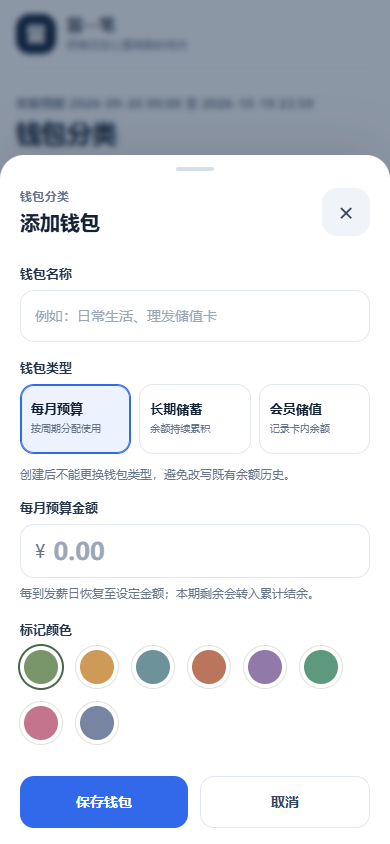
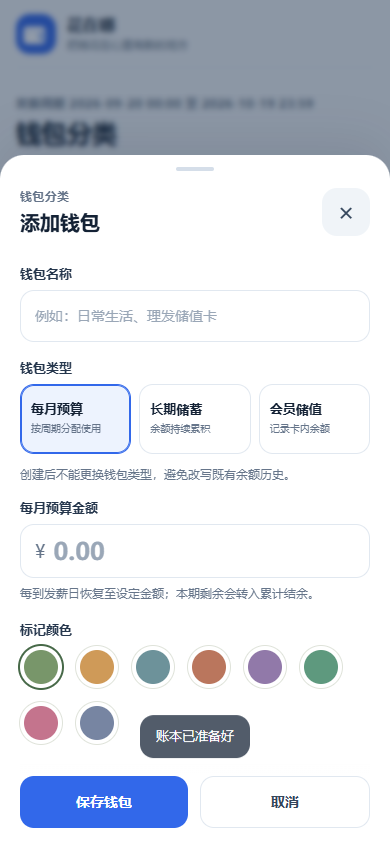
改名花在哪并更换钱包图标，发布 2.0.1

Changed region(s): [[0.3385, 0.8318, 0.6462, 0.9242], [0.0308, 0.0, 0.1538, 0.0924], [0.2154, 0.0, 0.2769, 0.0616]]

diff --git a/index.html b/index.html
@@ -8,11 +8,11 @@
   <link rel="manifest" href="manifest.json">
   <link rel="icon" href="icon.svg" type="image/svg+xml">
   <link rel="stylesheet" href="styles.css">
-  <title>留一笔 · 预算记账</title>
+  <title>花在哪 · 预算记账</title>
 </head>
 <body>
   <div class="app-shell">
-    <header class="topbar"><a class="brand" href="#wallets" aria-label="留一笔首页"><span class="brand-mark">留</span><span>留一笔<small>把钱花在心里有数的地方</small></span></a></header>
+    <header class="topbar"><a class="brand" href="#wallets" aria-label="花在哪首页"><img class="brand-mark" src="icon.svg" alt=""><span>花在哪<small>把钱花在心里有数的地方</small></span></a></header>
     <div id="storageWarning" class="storage-warning" role="alert" hidden></div>
     <main>
       <section class="page active" id="walletsPage">
@@ -65,7 +65,7 @@
           <p class="field-help" id="backupStatus">尚未备份</p>
           <p class="field-help">离线使用。关闭页面期间不会后台提醒；重新打开时会补齐到期项目和发薪周期。</p>
         </section>
-        <p class="privacy-note" id="privacyNote">数据只保存在此浏览器 · 不需要注册 · 留一笔 2.0.0</p>
+        <p class="privacy-note" id="privacyNote">数据只保存在此浏览器 · 不需要注册 · 花在哪 2.0.1</p>
       </section>
     </main>
     <nav class="bottom-nav" aria-label="主导航"><button class="nav-item active" data-page="walletsPage"><svg viewBox="0 0 24 24" aria-hidden="true"><path d="M4 6.5h15a2 2 0 0 1 2 2v9a2 2 0 0 1-2 2H5a2 2 0 0 1-2-2v-12a2 2 0 0 1 2-2h14M3 8h18m-5 5h3"/></svg>钱包</button><button class="nav-item" data-page="billsPage"><svg viewBox="0 0 24 24" aria-hidden="true"><path d="M6 3.5h12v17l-3-2-3 2-3-2-3 2zM9 8h6m-6 4h6m-6 4h3"/></svg>账单</button><button class="nav-item" data-page="settingsPage"><svg viewBox="0 0 24 24" aria-hidden="true"><path d="M12 3.5v2m0 13v2m8.5-8.5h-2m-13 0h-2m14.5-6-1.4 1.4m-9.2 9.2L6 18m12 0-1.4-1.4M7.4 7.4 6 6m10 6a4 4 0 1 1-8 0 4 4 0 0 1 8 0Z"/></svg>设置</button></nav>
@@ -74,7 +74,7 @@
   <input id="importFile" type="file" accept="application/json,.json" hidden>
   <section class="onboarding" id="onboarding" aria-labelledby="setupTitle" hidden>
     <div class="onboarding-shell">
-      <div class="onboarding-brand"><span class="brand-mark">留</span><span>留一笔<small>按自己的节奏开始</small></span></div>
+      <div class="onboarding-brand"><img class="brand-mark" src="icon.svg" alt=""><span>花在哪<small>按自己的节奏开始</small></span></div>
       <div class="setup-progress" aria-label="初始化步骤"><span data-setup-progress="1"></span><span data-setup-progress="2"></span><span data-setup-progress="3"></span></div>
       <div class="setup-step" id="setupStep1">
         <p class="eyebrow">第 1 步 · 工资周期</p><h1 id="setupTitle">先设定你的发薪节奏</h1><p class="setup-intro">输入实际到手工资和发薪日。金额留空时不会按 0 元开始。</p>

diff --git a/app.js b/app.js
@@ -651,7 +651,7 @@ function renderReports(){
 function renderSettings(force=false){
   const form=$('#salaryForm');if(force||form.dataset.loaded!=='true'){if(form.dataset.dirty==='true')showToast('工资设置已重新载入');$('#salaryInput').value=(state.salaryCents/100).toFixed(2);$('#paydayInput').value=state.payday;$('#paydayHourInput').value=state.paydayHour;form.dataset.loaded='true';form.dataset.dirty='false'}
   $('#dataStorageDescription').textContent=nativeStorage?'保存在本机，可导出 JSON 备份':'保存在此浏览器，可导出 JSON 备份';
-  $('#privacyNote').textContent=nativeStorage?'留一笔 2.0.0 · 数据保存在本机':'数据只保存在此浏览器 · 不需要注册 · 留一笔 2.0.0';
+  $('#privacyNote').textContent=nativeStorage?'花在哪 2.0.1 · 数据保存在本机':'数据只保存在此浏览器 · 不需要注册 · 花在哪 2.0.1';
   const net=state.salaryCents,total=allocationTotal(),current=currentCycleAllocation(),over=total-net,currentOver=current-net;
   $('#salaryAllocationHelp').textContent=over>0||currentOver>0?`${currentOver>0?`本期已分配超出月到手工资 ${money(currentOver)}。`:''}${over>0?`下期计划分配超出月到手工资 ${money(over)}。`:''}请削减钱包额度或调整月到手工资。`:`本期已分配 ${money(current)}；下期计划分配 ${money(total)}，预计未分配 ${money(net-total)}。`;
   $('#nextRefreshText').textContent=`下次自动刷新：${scheduleLabel(nextScheduledAt())}。应用重新打开时会补齐漏过的发薪周期和到期账单。`;
@@ -898,7 +898,7 @@ function deleteEntry(id){
 }
 
 function exportData(){
-  const exportedAt=Date.now(),filename=`留一笔备份-${dateISO(new Date())}.json`;
+  const exportedAt=Date.now(),filename=`花在哪备份-${dateISO(new Date())}.json`;
   if(nativeStorage){
     if(typeof nativeBridge.exportLedger!=='function')return showToast('此 Android 版本不支持导出备份');
     pendingNativeExportAt=exportedAt;try{nativeBridge.exportLedger(JSON.stringify({...state,lastExportAt:exportedAt}),filename);showToast('正在准备备份…')}catch(error){pendingNativeExportAt=null;showToast(`备份导出失败：${error.message||'请重试'}`)}return;

diff --git a/styles.css b/styles.css
@@ -37,7 +37,7 @@ input:disabled,select:disabled,button:disabled{cursor:not-allowed;opacity:.52}
 .topbar{height:68px;border-color:var(--line)}
 .brand{gap:11px;color:var(--ink);font-size:16px;font-weight:700}
 .brand small{color:var(--muted);font-size:11px}
-.brand-mark{width:40px;height:40px;border-radius:14px;background:#10233F;color:#fff}
+.brand-mark{display:block;flex:none;width:40px;height:40px;object-fit:contain;border-radius:14px;background:transparent}
 .page-heading{margin:28px 0 20px}
 .page-heading h1{font-size:26px;font-weight:700;letter-spacing:-.035em}
 .eyebrow{color:#66758A;font-size:12px;font-weight:650;letter-spacing:.03em}

diff --git a/sw.js b/sw.js
@@ -1,4 +1,4 @@
-const CACHE='liuyibi-v5';
+const CACHE='huazaina-v5-2.0.1';
 const FILES=['./','./index.html','./styles.css','./app.js','./manifest.json','./icon.svg'];
 self.addEventListener('install',event=>event.waitUntil(caches.open(CACHE).then(cache=>cache.addAll(FILES)).then(()=>self.skipWaiting())));
 self.addEventListener('activate',event=>event.waitUntil(caches.keys().then(keys=>Promise.all(keys.filter(key=>key!==CACHE).map(key=>caches.delete(key)))).then(()=>self.clients.claim())));

diff --git a/README.md b/README.md
@@ -1,14 +1,16 @@
-# 留一笔
+# 花在哪
+
+<img src="docs/images/app-icon.png" alt="花在哪图标" width="72" height="72">
 
 **把工资分进几个钱包，花钱时点钱包、填金额。**
 
 一个简单、实用的单机记账应用，支持 Android 和浏览器。日常操作只有一条：**打开 → 点钱包 → 输入花了多少 → 保存**。钱包余额随之减少，想知道钱花在哪、还剩多少，直接看钱包或账单。
 
-[下载安卓安装包](https://github.com/BitPulse10/liuyibi/releases/latest) · [使用说明](docs/usage.md) · [Android 构建说明](android-app/README.md)
+[下载安卓安装包](https://github.com/BitPulse10/hua-zai-na/releases/latest) · [使用说明](docs/usage.md) · [Android 构建说明](android-app/README.md)
 
 ## 为什么做它
 
-发工资后，很多人已经知道这笔钱要怎么用：一部分日常花，一部分交房租，一部分存起来。留一笔把这个安排直接做成首页的钱包。先安排钱的用途，再从对应的钱包记消费。
+发工资后，很多人已经知道这笔钱要怎么用：一部分日常花，一部分交房租，一部分存起来。花在哪把这个安排直接做成首页的钱包。先安排钱的用途，再从对应的钱包记消费。
 
 ## 简单，具体体现在哪
 
@@ -50,7 +52,7 @@
 
 ### Android
 
-到 [Releases](https://github.com/BitPulse10/liuyibi/releases/latest) 下载 APK，传到手机后安装。支持 Android 6.0 及以上版本，首次启动按引导填写工资和发薪日，再创建钱包，也可以导入已有 JSON 备份。
+到 [Releases](https://github.com/BitPulse10/hua-zai-na/releases/latest) 下载 APK，传到手机后安装。支持 Android 6.0 及以上版本，首次启动按引导填写工资和发薪日，再创建钱包，也可以导入已有 JSON 备份。
 
 ### 浏览器
 
@@ -67,7 +69,7 @@ python -m http.server 8787
 - 计划消费不会连接银行或支付平台实际扣款。
 - 应用关闭后不会后台执行或发送系统通知；重新打开、回到前台时会补齐错过的发薪周期和到期计划。
 - 数据不自动上传或同步。卸载 Android 应用、清除应用数据或清理浏览器站点数据前，请先导出备份。
-- 本次 Android 2.0.0 已完成发布构建、签名校验和手机尺寸界面预览，尚未完成安卓实机验证。
+- 本次 Android 2.0.1 已完成发布构建、签名校验和手机尺寸界面预览，尚未完成安卓实机验证。
 - 正式版可与早期旧版 Android 应用并存。旧版账本不能跨应用自动读取，请保留旧应用；迁移限制见 [Android 说明](android-app/README.md#从旧版-apk-转移数据)。
 
 ## 源码与构建

diff --git a/android-app/README.md b/android-app/README.md
@@ -1,4 +1,4 @@
-# 留一笔 Android
+# 花在哪 Android
 
 Android 安装包在设备上离线运行网页记账界面。WebView 只从 APK 内的白名单资源加载 `index.html`、`app.js`、`styles.css`、`icon.svg`、`manifest.json`，以及上级目录中存在时的 `android-runtime.js`；Gradle 每次构建时从上级项目目录同步，不维护另一份静态网页。页面使用 `https://budget-pocket.local/` 本地虚拟域名映射 APK assets，不启用 `file://`、通用文件访问或网络权限。Android 桥由当前 `app.js` 直接调用。
 
@@ -15,7 +15,7 @@ Set-ExecutionPolicy -Scope Process Bypass
 
 依赖已预先缓存时可加 `-Offline`，避免 Gradle 检查网络元数据。
 
-正式 APK 使用稳定包名 `cn.liuyibi.budget.offline`，可与旧版 `cn.liuyibi.budget` 并存。首次运行会在 `local-signing/` 创建持久 release keystore，并在被 Git 忽略的 `signing.properties` 保存本地签名设置。每次构建都会要求 release 签名、运行 Android `apksigner verify`，成功后输出到 `../delivery/留一笔-2.0.0.apk`。把 `local-signing/` 和 `signing.properties` 一并保存在安全备份中；丢失原签名密钥后，后续版本不能作为同一应用更新。
+正式 APK 使用稳定包名 `cn.liuyibi.budget.offline`，可与旧版 `cn.liuyibi.budget` 并存。首次运行会在 `local-signing/` 创建持久 release keystore，并在被 Git 忽略的 `signing.properties` 保存本地签名设置。每次构建都会要求 release 签名、运行 Android `apksigner verify`，成功后输出到 `../delivery/hua-zai-na-2.0.1.apk`。把 `local-signing/` 和 `signing.properties` 一并保存在安全备份中；丢失原签名密钥后，后续版本不能作为同一应用更新。
 
 也可不生成本地密钥文件，改用 `LIUYIBI_RELEASE_STORE_FILE`、`LIUYIBI_RELEASE_STORE_PASSWORD`、`LIUYIBI_RELEASE_KEY_ALIAS` 和 `LIUYIBI_RELEASE_KEY_PASSWORD` 配置外部 keystore。
 

diff --git a/docs/usage.md b/docs/usage.md
@@ -1,4 +1,4 @@
-# 留一笔 · 单机预算记账
+# 花在哪 · 单机预算记账
 
 手机优先的本地记账应用，不需要账号、服务器或外部依赖。浏览器版将账本保存在 `localStorage`；Android 版通过本机账本桥读写 JSON，并以原子文件保存。首次启动不会填入示例工资、钱包或消费。
 
@@ -14,7 +14,7 @@
 
 - **钱包**：显示本月到手工资、已分配、未分配和本月支出合计。点击钱包大卡片直接记即时消费；明细、编辑、删除始终可见，临时收入、转给其他钱包与停用/恢复收在卡片的“更多”中。公积金、医保与累计结余也显示在钱包首页。到期计划会出现在首页的待确认账单中，可确认或取消；确认前不会记入支出。
 - **账单**：查看今日、本周、本月、年度、历史发薪周期和逐笔流水。月度按发薪周期，年度按发薪月份的周期起始月份归属；年度合计由 12 个发薪月份分项相加。报表总额注明含公积金、医保；分类金额分别显示钱包支出与公积金 / 医保支出。
-- **设置**：填写每月到手工资，可设置发薪日与小时，或导入、导出备份。应用版本为 2.0.0；账本保存在当前浏览器或 Android 设备本机。
+- **设置**：填写每月到手工资，可设置发薪日与小时，或导入、导出备份。应用版本为 2.0.1；账本保存在当前浏览器或 Android 设备本机。
 
 ## 钱包、账户和余额
 
